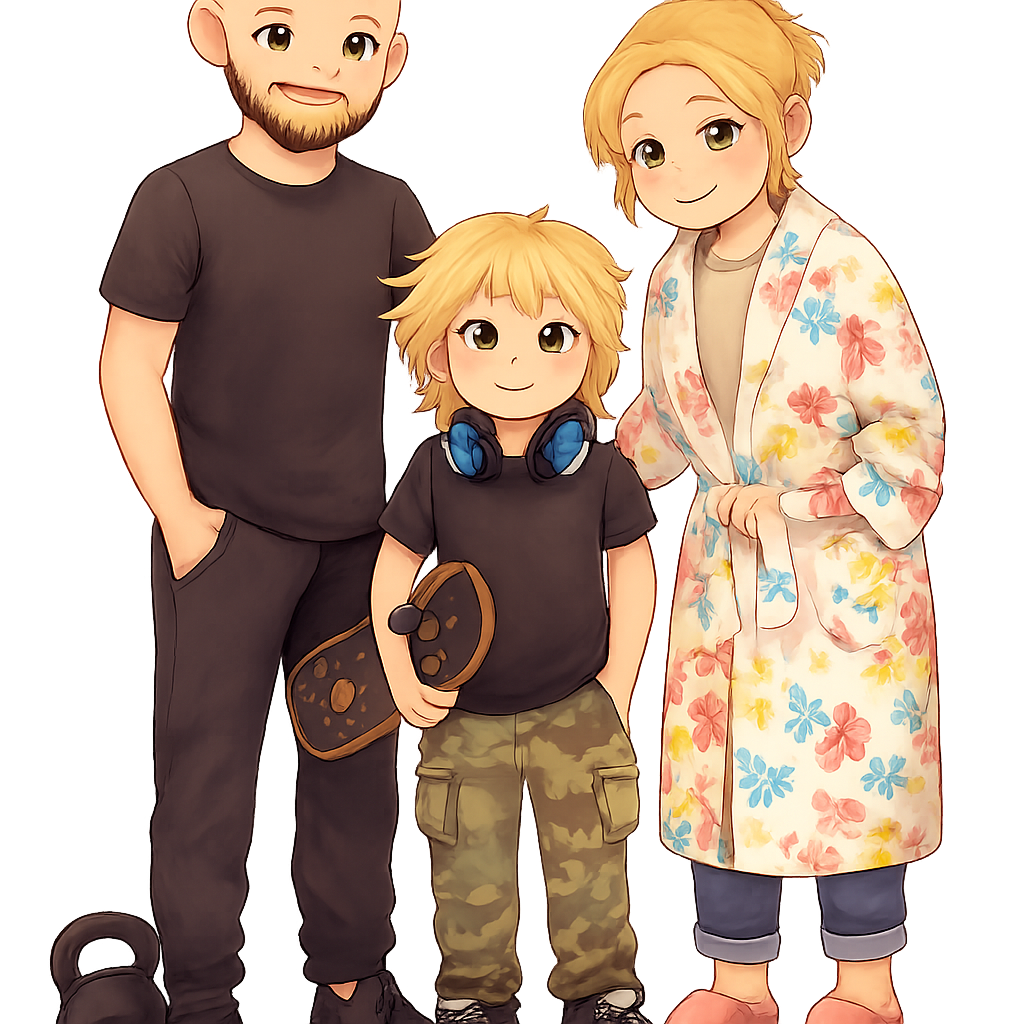
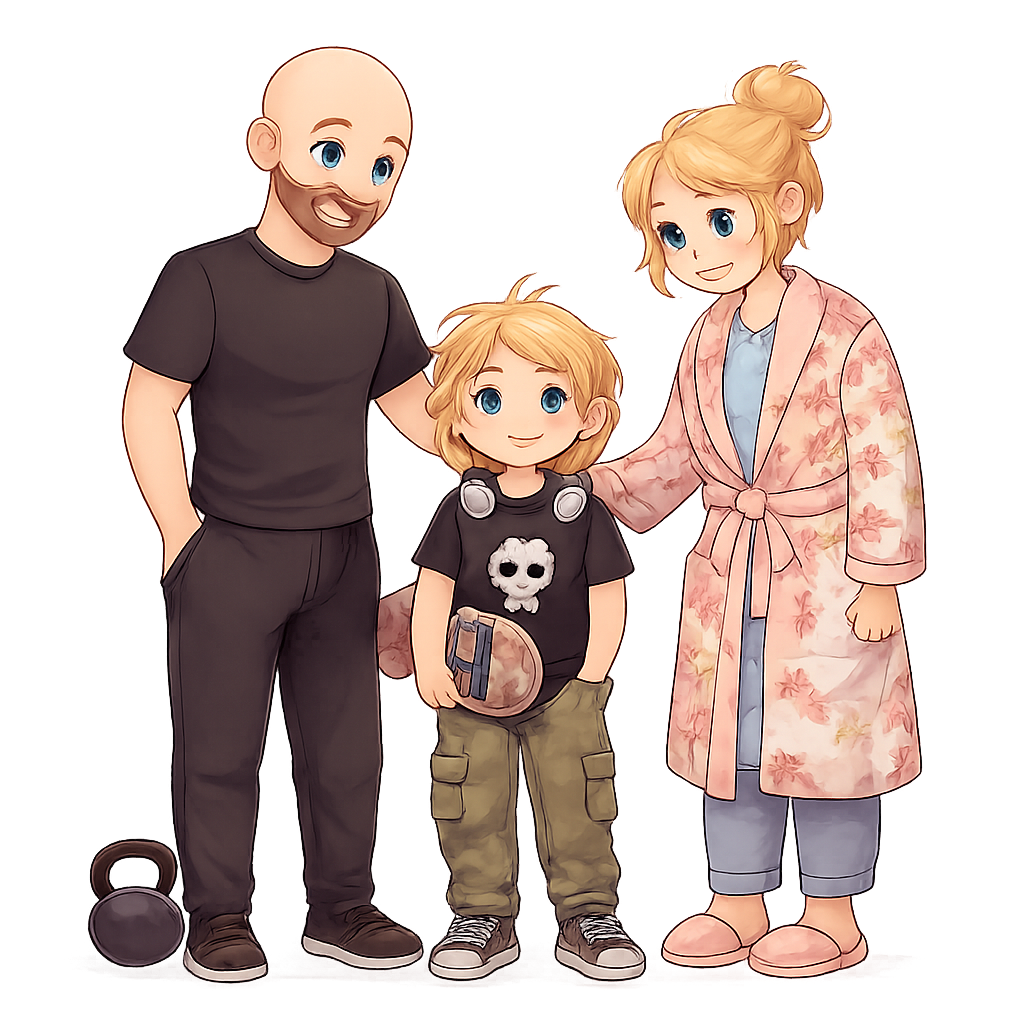
Add #31 The Estrada Train + Two-Houses eye-colour & cropping fixes
New family #31: The Estrada Train — Lily's best friend Samuel's
Polish-Colombian family of 10 (tall dad with stubble, pregnant mum
with bob, 8 kids ages 1-12 with a signature tousled-curly-top /
shorter-sides haircut on every single one). Boisterous exotic-loving
household — wants parrots and snakes, not cats. Cast grows to 31
households.

Two-Houses corrections: all three family members now have bright
blue eyes (Marcus, Rhubarb, Gosia). Prompt explicitly requires full
heads + feet in frame with generous padding — the earlier crop was
chopping the slippers.

Gallery + cast.json updated with the new household and corrected
display order (Marcus & Rhubarb & Gosia, with Rhubarb between the
co-parents).

diff --git a/apps/game/public/admin/cast-gallery.html b/apps/game/public/admin/cast-gallery.html
@@ -92,6 +92,7 @@
     { id: '28-iris-teacher', name: 'Ms. Popescu\'s Year 3', blurb: 'Romanian teacher · class corn snake or parrot' },
     { id: '29-wenna', name: 'Wenna Treloar', blurb: 'Cornish lighthouse keeper, shaggy sea-dog' },
     { id: '30-two-houses', name: 'Marcus & Rhubarb & Gosia', blurb: 'Two-houses family · Rhubarb links the co-parents · adaptable travelling pet' },
+    { id: '31-estrada-train', name: 'The Estrada Train', blurb: "Samuel (Lily's bestie) + 7 siblings + pregnant mum + dad · parrots &amp; snakes" },
   ];
 
   const grid = document.getElementById('grid');

diff --git a/docs/rehoming-cast.md b/docs/rehoming-cast.md
@@ -16,7 +16,7 @@
 
 ---
 
-## The cast (30 households)
+## The cast (31 households)
 
 ### Solo adopters
 
@@ -54,6 +54,7 @@
 | 13 | **Kumar-Ishii family** | Dr. Ishii (she/her, 50, vet) · Priti (she/her, 48, accountant) · Amara (she/her, 9, tomboy, loves trees) | Dr. Ishii in scrubs; Priti always has a notebook; Amara is usually covered in leaves | Repeat adopters · Vet expertise · Existing ARC cat | A second cat — companion to their first |
 | 14 | **Grandpa Theo & the grandkids** | Theo (he/him, 70, Black British, retired librarian) · Kofi (10) · Zuri (7) — weekends only | Theo in corduroys with a pipe he never lights; Kofi in glasses; Zuri in butterfly-wings backpack | Weekend-only kids · Gentle older adult · First-time | A sweet medium dog good with visiting children |
 | 24 | **Perera-Fernando family** | Ranjith (he/him, 44, civil engineer) · Shanthi (she/her, 42, primary teacher) · twins Arjun & Anoushka (9) | Sri Lankan British; Ranjith in a button-down + glasses, Shanthi in a cardigan, twins in matching rain boots (different colours) | Gentle · Vegetarian home · First family pet | A calm family-friendly dog the twins can grow up with |
+| 31 | **The Estrada Train** (Lily's nickname for them) | Dad Tomasz (he/him, 38, tall, dark hair, dark stubble) · Mum Luz (she/her, 36, tall, dark-hair bob, *currently pregnant*) · 8 kids: **Samuel** (he/him, 8, *Lily's best friend* — the train's engine), 5 more brothers and 2 sisters, ages 1 to 12 evenly distributed (1, 2, 4, 5, 7, 9, 10, 12 — Samuel is the 8-year-old), and a baby on the way. ALL 8 kids share a signature haircut — tousled dark-brown curls on top, clean shorter sides. | Polish-Colombian; extremely boisterous household, always-a-kid-awake energy, cheerful chaos. Parents wrangle. | Boisterous · Large-family chaos · Exotic-loving · Experienced wranglers | Parrots and snakes — loud, colourful, exotic pets that can hold their own in this riotous household. Absolutely NOT a quiet-cat household. |
 | 25 | **The Bramble House housemates** | Zoya (she/her, 28, Ukrainian-British PhD botany, pink hair) · Bruno (he/him, 31, Brazilian mature architecture student) · Sadia (she/her, 26, British-Bangladeshi medical student, hijab some days) · Obi (they/them, 27, Nigerian-British philosophy PhD) | Shared terraced house, dissertation-era chaos, one always home | Rotating care · Academic home · Quiet study hours | A chill cat who can handle round-the-clock study sessions |
 
 ### Institutional adopters (the pet becomes part of a residence — many people share the love)
